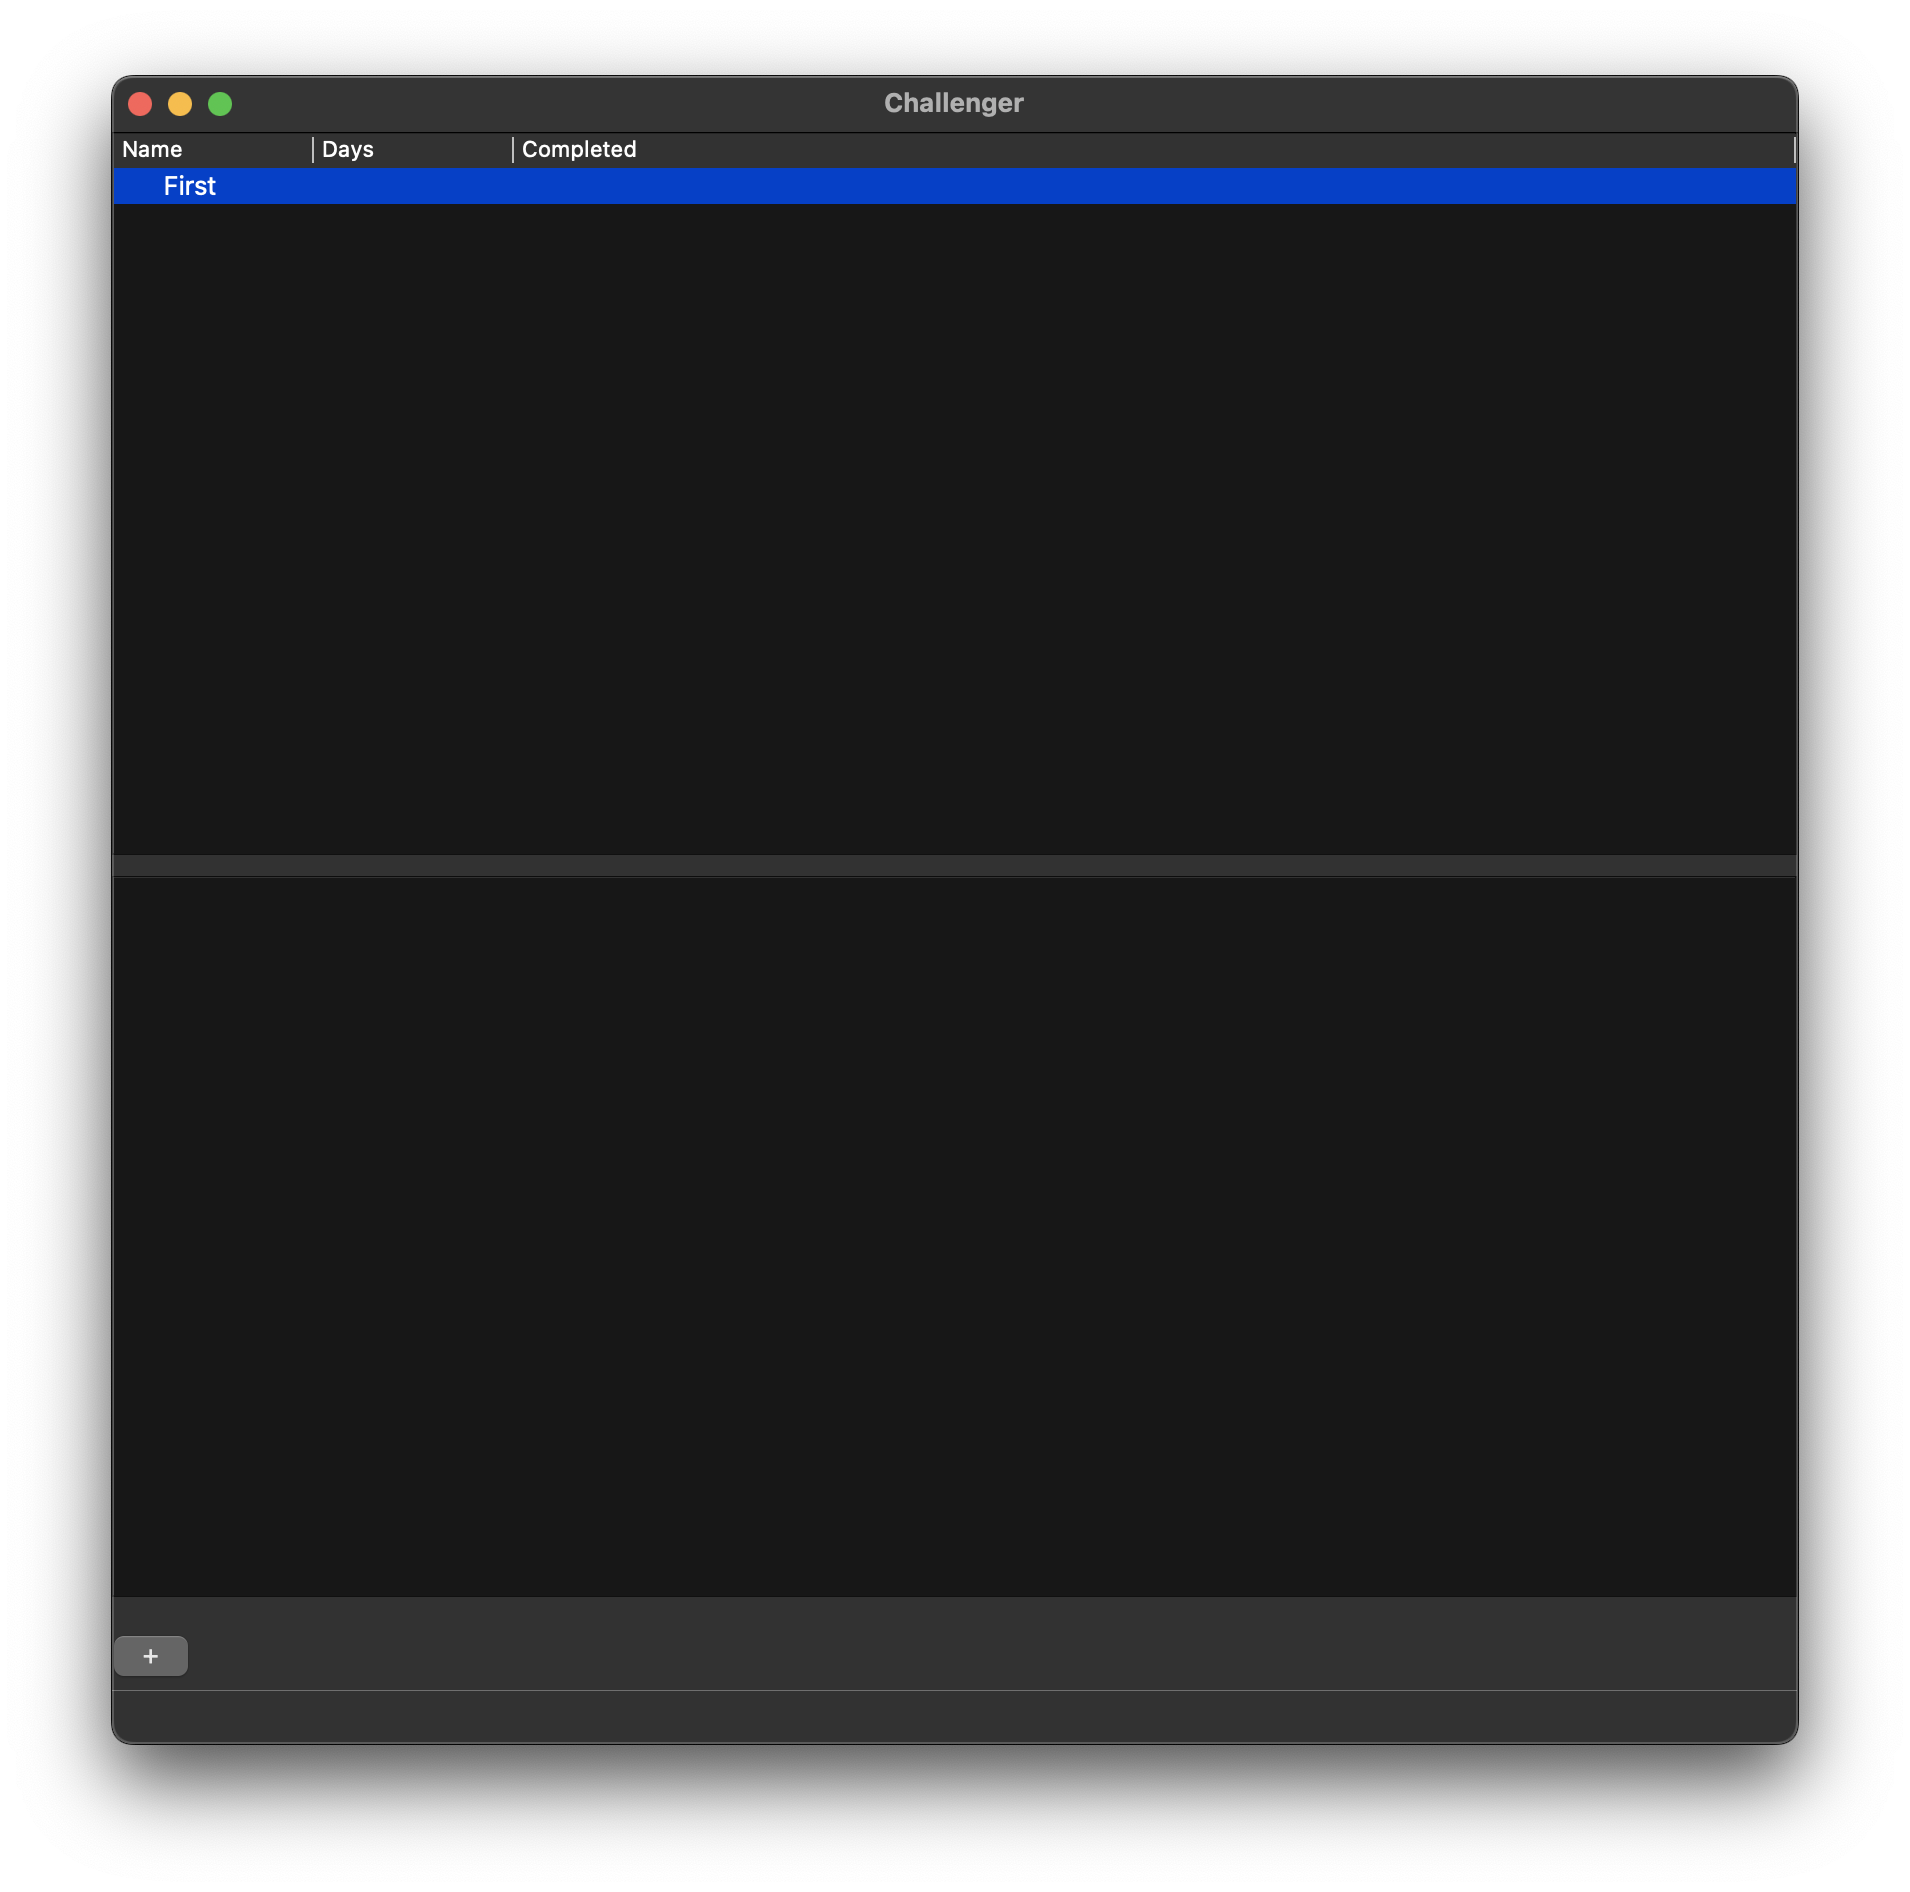
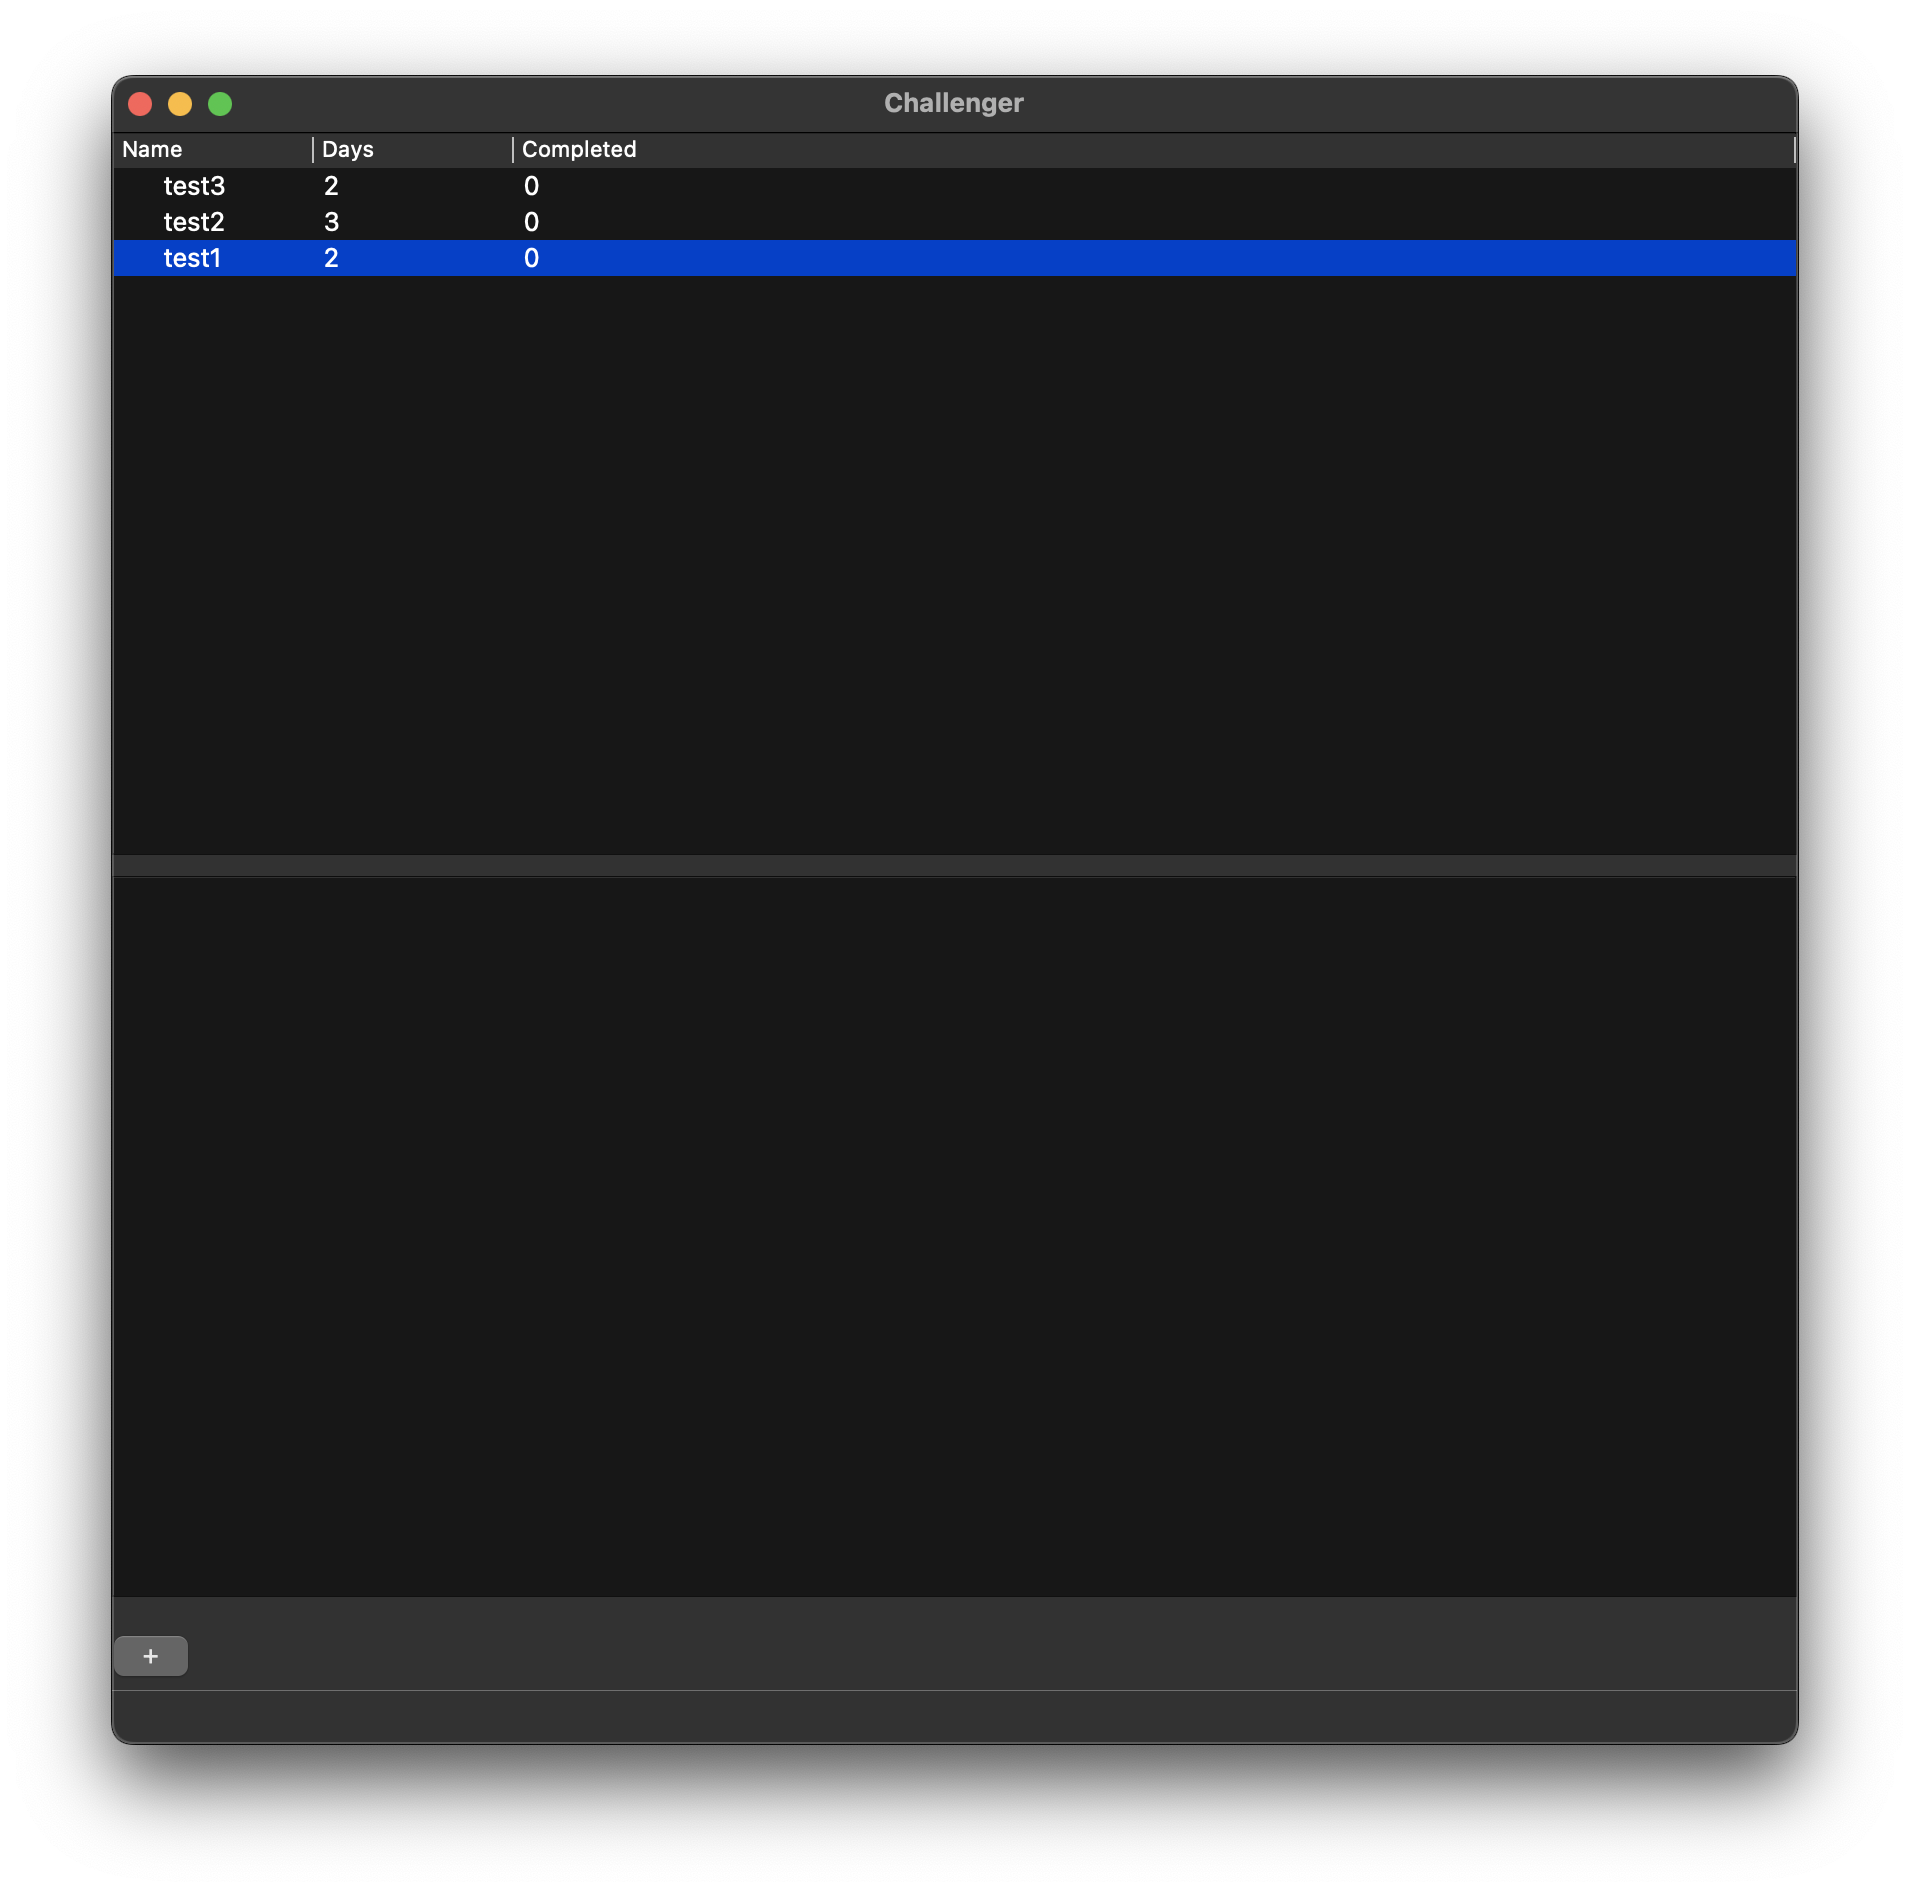
031124 changes 3

Changed region(s): [[0.0618, 0.0624, 0.9576, 0.1559]]

diff --git a/data/classes.py b/data/classes.py
@@ -6,6 +6,7 @@ from PyQt6.QtWidgets import QMainWindow, QDialog, QTreeWidgetItem
 import data.functions as funcs
 from PyQt6.QtCore import pyqtSignal
 from PyQt6.QtWidgets import QMessageBox
+import json
 
 
 class main_window_class(QMainWindow):
@@ -18,7 +19,7 @@ class main_window_class(QMainWindow):
         self.dayswindow_class_ex = dayswindow_class_ex
 
         # тут идет подключение кнопок
-        self.treeWidget.clicked.connect(self.run)
+        self.treeWidget.itemClicked.connect(self.run)
         self.Add_new_one.clicked.connect(self.create_new_one)
 
         # добавление в sql таблицу
@@ -28,7 +29,7 @@ class main_window_class(QMainWindow):
         path = PurePath('db/challenges.db')
         connection = sqlite3.connect(path)
         cursor = connection.cursor()
-        cursor.execute('SELECT challenge_lable, duration FROM challenges')
+        cursor.execute('SELECT challenge_lable, duration, completed FROM challenges')
         for i in cursor.fetchall():
             res = QTreeWidgetItem(i)
             self.treeWidget.insertTopLevelItem(0, res)
@@ -38,8 +39,8 @@ class main_window_class(QMainWindow):
         msg_box.setWindowTitle(title)
         msg_box.setText(message)
 
-    def run(self):
-        self.dayswindow_class_ex.show()
+    def run(self, item, column):
+        self.dayswindow_class_ex.open_info(item.text(0), column)
 
     def create_new_one(self):
         self.add_new_one_class_ex.new_challenge_added.connect(self.updater)  # Подключение сигнала
@@ -54,6 +55,30 @@ class dayswindow_class(QMainWindow):
     def __init__(self):
         super().__init__()
         uic.loadUi('forms/days_challenger.ui', self)
+        self.treeWidget.clicked.connect(self.open_info)
+
+    def open_info(self, item, column):
+        self.load_info_about_challenge(item, column)
+
+    def load_info_about_challenge(self, name, column):
+        path = PurePath(f'data/json_files/{name}.json')
+        with open(path, mode='r') as in_json_f:
+            self.show()
+            json_data_about_challenge = [json.load(in_json_f)]
+            for i in json_data_about_challenge:
+                for k, v in i.items():
+                    info_about_class = [k]
+                    info_about_class.extend(v)
+                    res = QTreeWidgetItem(info_about_class)
+                    self.treeWidget.insertTopLevelItem(0, res)
+
+    def cleaning(self):
+        self.treeWidget.clear()
+
+
+
+
+
 
 
 class add_new_one_class(QDialog):

diff --git a/data/functions.py b/data/functions.py
@@ -16,6 +16,7 @@ def add_new_db():
        datefrom TEXT,
        dateto TEXT,
        duration TEXT,
+       completed TEXT,
        info TEXT);
     ''')
     cursor.execute('CREATE INDEX IF NOT EXISTS challenge_index ON challenges (challenge_lable)')
@@ -23,7 +24,7 @@ def add_new_db():
     connection.close()
 
 
-def add_new_one_challenge_func(title, duration, self, complited=0):
+def add_new_one_challenge_func(title, duration, self, complited='0'):
     # подключение БД
     path = PurePath('db/challenges.db')
     connection = sqlite3.connect(path)
@@ -67,8 +68,8 @@ def add_new_one_challenge_func(title, duration, self, complited=0):
         json.dump(competed, new_json)
 
     # Добавляем нового пользователя
-    cursor.execute('INSERT INTO challenges (challenge_lable, datefrom, dateto, duration, info) VALUES (?, ?, ?, ?, ?)',
-                   (title, day_today, day_of_the_end, duration, f'{title}.json'))
+    cursor.execute('INSERT INTO challenges (challenge_lable, datefrom, dateto, duration, completed, info) VALUES (?, ?, ?, ?, ?, ?)',
+                   (title, day_today, day_of_the_end, duration, complited, f'{title}.json'))
 
     # Сохраняем изменения и закрываем соединение
     connection.commit()

diff --git a/README.md b/README.md
@@ -1,1 +1,12 @@
-# NewTest
+# Постановщик челленджей
+__Данный проект помогает пользователю составлять собственные челленджи, отследивать  прогресс, а также делать пометки по каждому из них.__
+![Текст с описанием картинки](/Users/romankulakov/Desktop/challenger_analyzer/materials/image_of_start_window.png)
+
+
+>Для создания требуется ввести всего  название нового челленджа и его длительность в диалоговом окне.
+>![Текст с описанием картинки](/Users/romankulakov/Desktop/challenger_analyzer/materials/image_of_adding_window.png)
+
+
+>Также юзер может отмечать выполнение по каждому дню и делать пометки.
+>![Текст с описанием картинки](/Users/romankulakov/Desktop/challenger_analyzer/materials/image_of_challenge_window.png)
+
